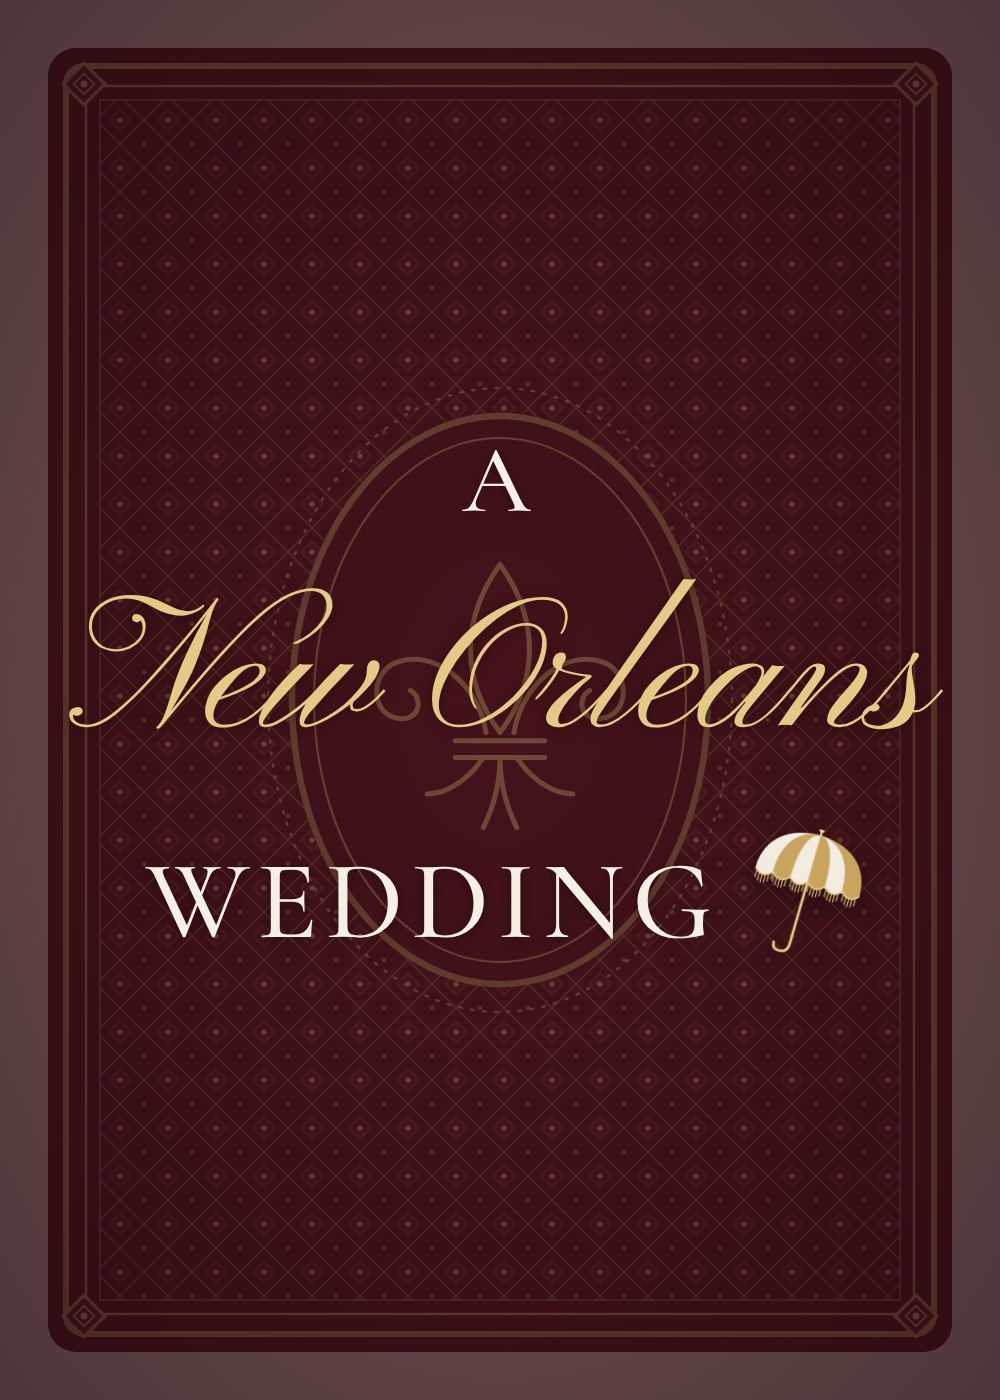
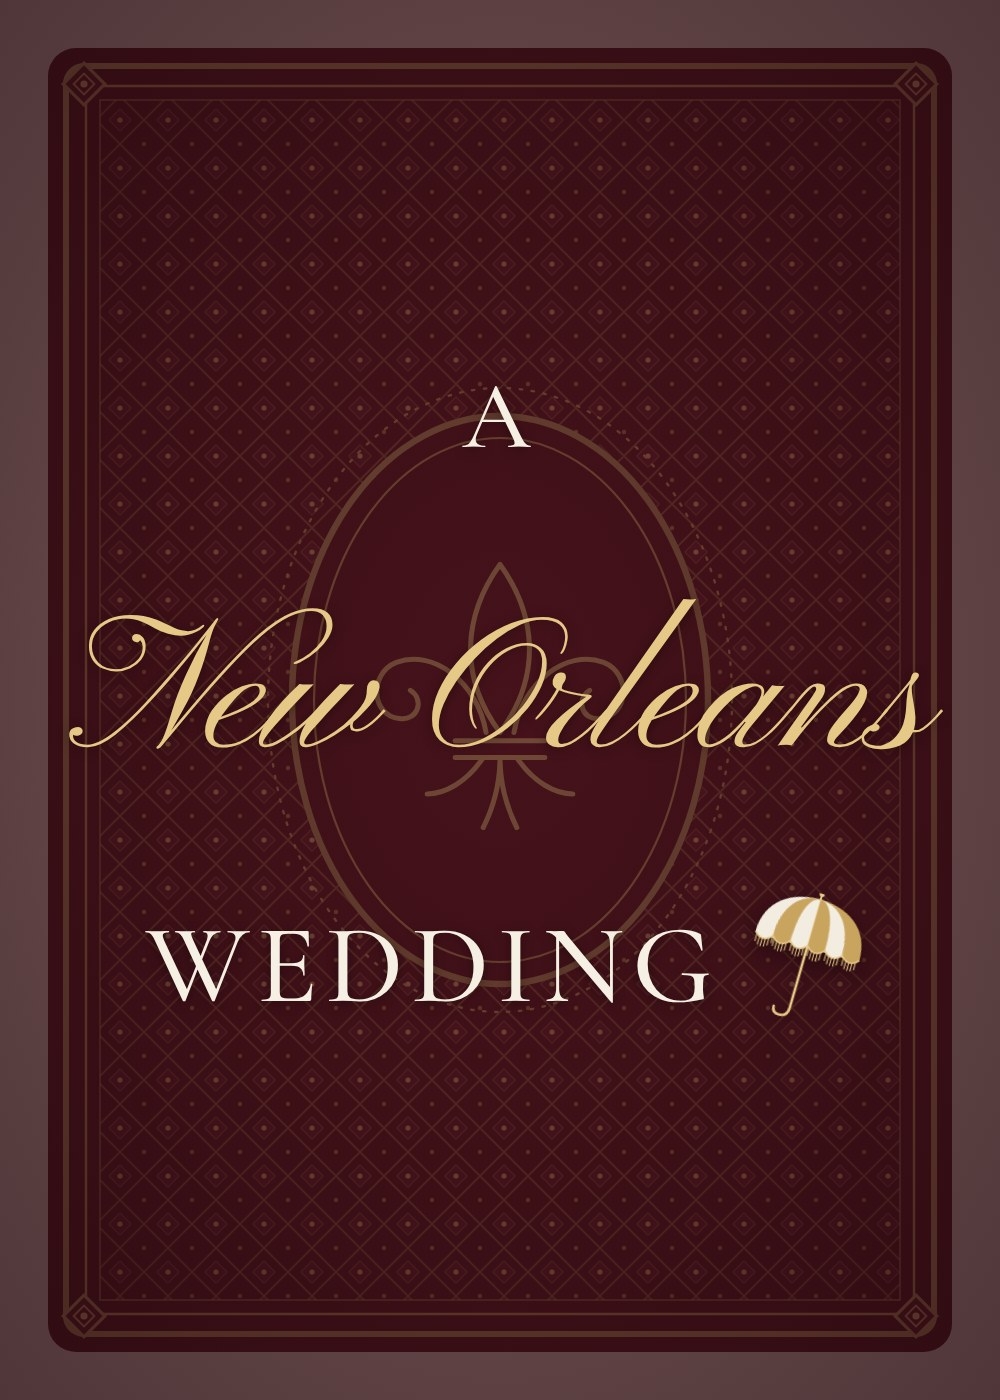
Preview tests: double the space between title lines
Claude-Session: https://claude.ai/code/session_016KBQnmGzJaodTgtuWJa9K5

diff --git a/tools/make-previews.js b/tools/make-previews.js
@@ -24,9 +24,9 @@ const parasolSVG = new Function(parasolSrc + "; return parasolSVG;")();
 // Title-card previews: the card under a deep maroon wash, with the words over it.
 const titleCSS = (k) => `
 .wash{position:absolute;inset:0;background:radial-gradient(ellipse at center,rgba(58,14,22,.66) 0%,rgba(40,9,15,.8) 100%)}
-.title{position:absolute;inset:0;display:flex;flex-direction:column;align-items:center;justify-content:center;text-align:center;gap:${44*k}px;
+.title{position:absolute;inset:0;display:flex;flex-direction:column;align-items:center;justify-content:center;text-align:center;gap:${88*k}px;
   text-shadow:0 2px 12px rgba(0,0,0,.35)}
-.title .a{font-family:"Cormorant Garamond",Georgia,serif;font-weight:500;color:#f6f0e4;font-size:${96*k}px;letter-spacing:.07em;line-height:1}
+.title .a{font-family:"Cormorant Garamond",Georgia,serif;font-weight:500;color:#f6f0e4;font-size:${96*k}px;letter-spacing:.07em;line-height:1;margin-bottom:${40*k}px}
 .title .no{font-family:"Pinyon Script",cursive;color:#e6c887;font-size:${190*k}px;line-height:1.15;white-space:nowrap}
 .title .wed{display:flex;align-items:center;justify-content:center;gap:${22*k}px}
 .title .wed span{font-family:"Cormorant Garamond",Georgia,serif;font-weight:500;color:#f6f0e4;font-size:${112*k}px;letter-spacing:.07em;

diff --git a/preview-test/portrait.html b/preview-test/portrait.html
@@ -10,13 +10,13 @@
   <meta property="og:url" content="https://aneworleanswedding.com/preview-test/portrait.html">
   <meta property="og:title" content="Ailsa ⚜ André">
   <meta property="og:description" content="Save the date · January 8, 2028 · New Orleans, Louisiana">
-  <meta property="og:image" content="https://aneworleanswedding.com/assets/og-card-portrait.jpg?v=6">
+  <meta property="og:image" content="https://aneworleanswedding.com/assets/og-card-portrait.jpg?v=7">
   <meta property="og:image:type" content="image/jpeg">
   <meta property="og:image:width" content="1000">
   <meta property="og:image:height" content="1400">
   <meta property="og:image:alt" content="A maroon playing card back with a gold fleur-de-lis medallion">
   <meta name="twitter:card" content="summary_large_image">
-  <meta name="twitter:image" content="https://aneworleanswedding.com/assets/og-card-portrait.jpg?v=6">
+  <meta name="twitter:image" content="https://aneworleanswedding.com/assets/og-card-portrait.jpg?v=7">
   <link rel="icon" href="../favicon.svg" type="image/svg+xml">
   <style>body{margin:0;min-height:100vh;display:grid;place-items:center;background:#f8f4ec;font-family:Georgia,serif;color:#2f3a33;text-align:center;padding:24px}a{color:#5c1a24}</style>
 </head>

diff --git a/preview-test/square.html b/preview-test/square.html
@@ -10,13 +10,13 @@
   <meta property="og:url" content="https://aneworleanswedding.com/preview-test/square.html">
   <meta property="og:title" content="Ailsa ⚜ André">
   <meta property="og:description" content="Save the date · January 8, 2028 · New Orleans, Louisiana">
-  <meta property="og:image" content="https://aneworleanswedding.com/assets/og-card-square.jpg?v=6">
+  <meta property="og:image" content="https://aneworleanswedding.com/assets/og-card-square.jpg?v=7">
   <meta property="og:image:type" content="image/jpeg">
   <meta property="og:image:width" content="1200">
   <meta property="og:image:height" content="1200">
   <meta property="og:image:alt" content="A maroon playing card back with a gold fleur-de-lis medallion">
   <meta name="twitter:card" content="summary_large_image">
-  <meta name="twitter:image" content="https://aneworleanswedding.com/assets/og-card-square.jpg?v=6">
+  <meta name="twitter:image" content="https://aneworleanswedding.com/assets/og-card-square.jpg?v=7">
   <link rel="icon" href="../favicon.svg" type="image/svg+xml">
   <style>body{margin:0;min-height:100vh;display:grid;place-items:center;background:#f8f4ec;font-family:Georgia,serif;color:#2f3a33;text-align:center;padding:24px}a{color:#5c1a24}</style>
 </head>
